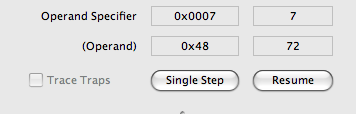
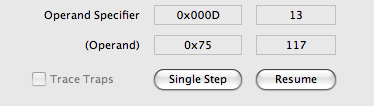
Added the correct screenshots for our debugging programs help docs, and tweaked some of the html files. We need to have two separate object programs in our help system, which will come after lunch.
git-svn-id: http://pep8-1.googlecode.com/svn/trunk@295 0efa5a84-20a4-11de-9909-f37ff7dbbc12

diff --git a/help/debuggingprograms.html b/help/debuggingprograms.html
@@ -37,12 +37,15 @@ View the Memory Dump pane by selecting View->Code/CPU/Memory from the menu or by
 <img src="images/codecpumemoryicon.png" alt="codecpumemoryicon" hspace=10 vspace=10>
 <p>
 The Pep/8 application may run noticibly slower when the Memory Dump pane is visible.
+You can click either of the other two view icons to hide the Memory Dump pane.
+<p>
+ <i>Image of the other two view icons.</i>
 <h4>Switching to debug mode</h4>
 To use the Memory Dump pane you must first switch to the debug mode.
 If you are debugging a machine language program that you wrote, the first step is to enter the program in hexadecimal in the Object Code pane.
-The following figure shows the object program from Figure 4.41 of the text.
+The following figure shows the object program from Figure 4.34 of the text.
 <p>
-<img src="qrc:/help/images/fig441.png" alt="fig441" hspace=10 vspace=10>
+<img src="qrc:/help/images/fig0434.png" alt="fig0434" hspace=10 vspace=10>
 <p>
  Then select Build->Start Debugging Object from the menu, which puts you in the debugging mode.
 <p>
@@ -54,9 +57,12 @@ Assemble it by selecting Build->Assemble from the menu or clicking on the hammer
 <img src="qrc:/help/images/assemble.png" alt="assemble" hspace=10 vspace=10>
 <img src="qrc:/help/images/assembleicon.png" alt="assembleicon" hspace=10 vspace=10>
 <p>
+<i> We need a comment here about requiring input in the input pane before debugging starts.</i>
+<p>
  Then select Build->Start Debugging Source from the menu, or click on the icon with the bug in the toolbar, which puts you in the debugging mode.
 <p>
 <img src="qrc:/help/images/startdebuggingsource.png" alt="startdebuggingsource" hspace=10 vspace=10>
+ <i>Image of startdebuggingsourceicon</i>
 <p>
 <h4>Tracing in debug mode</h4>
 While you are in the debugging mode, you can click the Single Step button in the CPU pane,
@@ -67,7 +73,7 @@ which will execute one von Neumann cycle of the CPU.
  The CPU pane shows you the values of the NZVC bits and of each register in the CPU.
  The following screen shot shows the CPU pane after one click of the Single Step button for the object program from Figure 4.41.
 <p>
-<img src="qrc:/help/images/cpupane.png" alt="cpupane" hspace=10 vspace=10>
+<img src="qrc:/help/images/fig0434cpupane.png" alt="fig0434cpupane" hspace=10 vspace=10>
 <p>
 The CPU pane displays the content of the accumulator, index register, stack pointer, and program counter first in hexadecimal and
 then in decimal.
@@ -93,7 +99,7 @@ The Operand field in the CPU pane is enclosed in parentheses to emphasize the fa
  and highlights in blue the bytes of the instruction as specified by the program counter.
  The following screen shot shows the Memory Dump pane after the first click of the Single Step button.
 <p>
-<img src="qrc:/help/images/memorydump.png" alt="memorydump" hspace=10 vspace=10>
+<img src="qrc:/help/images/fig0434memorydump.png" alt="fig0434memorydump" hspace=10 vspace=10>
 <p>
 Each line of the Memory Dump pane displays eight bytes, each byte represented as two hexadecimal digits.
 The address in the first column is the address of the first byte.

diff --git a/help/assemblylanguage.html b/help/assemblylanguage.html
@@ -20,13 +20,13 @@ Assembly Language
 <p>
 An assembly language program is a sequence of lines, each line containing either an instruction
 from the Pep/8 instruction set specfied by a mnemonic,
-or a pseudo-operation, also called a pseudo-op or a dot command.
+or a pseudo-operation, also called a pseudo-op or dot command.
 The assembly language program must end with the pseudo-op <code>.END</code>.
 <p>
  Topics:
  <a href="#Writing">Writing an assembly language program</a>,
  <a href="#Trace">Trace tag warnings</a>,
- <a href="#Run">The Run option</a>.
+ <a href="#Run">The Run Source option</a>.
 
 <h3><a name="Writing">Writing an assembly language program</a></h3>
 
@@ -69,7 +69,7 @@ the <code>STRO</code> instruction.
 If you would like, you can select Build->Remove Error Messages from the menu to delete the error message.
 Then, you can correct your error and try to assemble your program again.
 It is not necessary to remove the error message before correcting your program, as error messages
-are automatically removed when you assemble your program.
+are automatically removed when you reassemble your program.
 <p>
 <img src="qrc:/help/images/removeerrormessages.png" alt="removeerrormessages" hspace=10 vspace=10>
 <p>
@@ -101,12 +101,13 @@ In the debugger, you can still single step through the program, set break points
 However, the symbolic trace feature that shows the C++ memory model graphically in the Memory Trace pane is disabled until
 you fix the trace tag error and reassemble your program.
 
-<h3><a name="Run">The Run option</a></h3>
+<h3><a name="Run">The Run Source option</a></h3>
 
-The three steps &mdash; Assemble, Load, Execute &mdash; are combined in the single option called Run.
-You can initiate a run by selecting Build->Run from the menu or by clicking on the Run icon in the tool bar.
+The three steps &mdash; Assemble, Load, Execute &mdash; are combined in the single option called Run Source.
+You can initiate a run by selecting Build->Run Source from the menu or by clicking on the Run Source icon in the tool bar.
 <p>
 <img src="qrc:/help/images/runsource.png" alt="runsource" hspace=10 vspace=10>
 <img src="qrc:/help/images/runicon.png" alt="runicon" hspace=10 vspace=10>
+<p>
 </body>
 </html>

diff --git a/help/machinelanguage.html b/help/machinelanguage.html
@@ -22,8 +22,12 @@ A machine language program is a binary sequence, that is, a sequence of ones and
 machine interprets according to its von Neumann cycle as in Figure 4.31 of the text.
 Therefore, to write a machine language program is to write a sequence of ones and zeros.
 Fortunately, the Pep/8 loader permits you to use the hexadecimal abbreviation for binary, as Section 3.4 explains.
+<p>
+ Topics:
+ <a href="#Writing">Writing a machine language program</a>,
+ <a href="#Run">The Run Object option</a>.
 
-<h3>Writing a machine language program</h3>
+<h3><a name="Writing">Writing a machine language program</a></h3>
 
 Writing a machine language program is a three-step process.
 <p>
@@ -31,7 +35,7 @@ Writing a machine language program is a three-step process.
 With this Pep/8 application, you write the machine language program in hexadecimal in the Object Code pane.
 The following figure shows the object program from Figure 4.41 of the text.
 <p>
-<img src="qrc:/help/images/fig441.png" alt="fig441" hspace=10 vspace=10>
+<img src="qrc:/help/images/fig0434.png" alt="fig0434" hspace=10 vspace=10>
 <p>
 A hexadecimal program must follow precise formatting rules.
 Each hex number representing a byte must contain exactly two characters.
@@ -57,8 +61,16 @@ To execute the program select Build -> Execute from the menu.
 <p>
 With this program, the output appears in the output pane.
 <p>
-<img src="qrc:/help/images/fig441output.png" alt="fig441output" hspace=10 vspace=10>
+<i>We need to explain the input as well</i>
 <p>
+<img src="qrc:/help/images/fig0434io.png" alt="fig0434io" hspace=10 vspace=10>
+<p>
+<h3><a name="Run">The Run Object option</a></h3>
 
+The two steps &mdash; Load, Execute &mdash; are combined in the single option called Run Object.
+You can initiate a run by selecting Build->Run Object from the menu.
+<p>
+<img src="qrc:/help/images/runobject.png" alt="runobject" hspace=10 vspace=10>
+<p>
 </body>
 </html>

diff --git a/help/writingprograms.html b/help/writingprograms.html
@@ -68,7 +68,7 @@ The Pep/8 system uses the following file extensions:
 <code>.pepo</code> is the file extension for object code programs.<br>
 <code>.pepl</code> is the file extension for the formatted program listing.
 <p>
-All of these files are text files that you can modify with your favorite text editor or word processor outside the Pep/8 application.
+All these files are text files that you can modify with your favorite text editor or word processor outside the Pep/8 application.
 When you open a <code>.pep</code> file, it opens in the Source Code pane.
 When you open a <code>.pepo</code> file, it opens in the Object Code pane.
 Although you can save a <code>.pepl</code> file, there is no facility for inputting it into the Pep/8 application.
